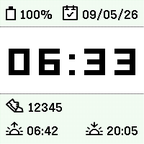
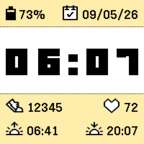
Improve watchface readability and status display

diff --git a/src/c/main.c b/src/c/main.c
@@ -65,6 +65,7 @@ static int32_t s_sunrise_minutes = -1;
 static int32_t s_sunset_minutes = -1;
 static int32_t s_current_date;
 static time_t s_last_sun_request_time;
+static uint8_t s_battery_percent;
 
 static bool s_steps_available;
 static bool s_heart_available;
@@ -73,8 +74,9 @@ static bool s_health_subscribed;
 static bool s_outbox_busy;
 
 static void prv_update_battery_state(BatteryChargeState state) {
+  s_battery_percent = state.charge_percent > 100 ? 100 : state.charge_percent;
   snprintf(s_battery_buffer, sizeof(s_battery_buffer), "%u%%",
-           (unsigned int)state.charge_percent);
+           (unsigned int)s_battery_percent);
 }
 
 static int32_t prv_date_code(const struct tm *local_time) {
@@ -288,8 +290,20 @@ static void prv_draw_battery_icon(GContext *ctx, GRect bounds) {
   graphics_fill_rect(ctx, body, 0, GCornerNone);
   graphics_fill_rect(ctx, terminal, 0, GCornerNone);
 
-  graphics_context_set_fill_color(ctx, GColorWhite);
+  graphics_context_set_fill_color(ctx, GColorYellow);
   graphics_fill_rect(ctx, interior, 0, GCornerNone);
+
+  int fill_height = (interior.size.h * s_battery_percent + 99) / 100;
+  if (s_battery_percent < 100 && fill_height == interior.size.h) {
+    fill_height--;
+  }
+  if (fill_height > 0) {
+    const GRect fill = GRect(interior.origin.x,
+                             interior.origin.y + interior.size.h - fill_height,
+                             interior.size.w, fill_height);
+    graphics_context_set_fill_color(ctx, GColorBlack);
+    graphics_fill_rect(ctx, fill, 0, GCornerNone);
+  }
 }
 
 static void prv_draw_header(GContext *ctx, int width) {
@@ -352,25 +366,15 @@ static void prv_draw_horizontal_dotted_line(GContext *ctx, int y, int width) {
 }
 
 static void prv_draw_status_background(GContext *ctx, GRect bounds) {
-  // Emery has no solid neutral gray between #AAAAAA and white. One gray
-  // pixel per 2x2 white pixels gives a very light, neutral appearance.
-  graphics_context_set_stroke_color(ctx, GColorLightGray);
-  graphics_context_set_stroke_width(ctx, 1);
-  for (int y = bounds.origin.y; y < bounds.origin.y + bounds.size.h; ++y) {
-    if (y % 2 != 0) {
-      continue;
-    }
-    for (int x = bounds.origin.x; x < bounds.origin.x + bounds.size.w; x += 2) {
-      graphics_draw_pixel(ctx, GPoint(x, y));
-    }
-  }
+  graphics_context_set_fill_color(ctx, GColorYellow);
+  graphics_fill_rect(ctx, bounds, 0, GCornerNone);
 }
 
 static void prv_draw_time(GContext *ctx, int width, int time_y) {
   graphics_context_set_text_color(ctx, GColorBlack);
 
   const int glyph_count = strlen(s_time_buffer);
-  const int target_width = glyph_count == 5 ? width - 16 : width - 36;
+  const int target_width = glyph_count == 5 ? width - 8 : width - 24;
   int glyph_widths[5] = {0};
   int glyphs_width = 0;
   char glyph[2] = {'\0', '\0'};
@@ -595,7 +599,7 @@ static void prv_window_load(Window *window) {
   Layer *window_layer = window_get_root_layer(window);
   const GRect bounds = layer_get_bounds(window_layer);
 
-  s_time_font = fonts_get_system_font(FONT_KEY_LECO_60_NUMBERS_AM_PM);
+  s_time_font = fonts_get_system_font(FONT_KEY_LECO_60_BOLD_NUMBERS_AM_PM);
   s_ampm_font = fonts_get_system_font(FONT_KEY_GOTHIC_14_BOLD);
   s_info_font = fonts_get_system_font(FONT_KEY_GOTHIC_24_BOLD);
 

diff --git a/STORE_LISTING.md b/STORE_LISTING.md
@@ -10,10 +10,11 @@ A crisp clock with battery, date, Health stats and locally calculated sun times.
 
 ## Description
 
-Pebble Like Time combines a large clock with very light gray status panels and
+Pebble Like Time combines a large clock with Workout-yellow status panels and
 fine dotted separators. It follows your watch's 12/24-hour and date settings.
 
-See battery percentage, daily steps, heart rate, sunrise and sunset at a glance.
+See battery percentage and its visual fill level, daily steps, heart rate,
+sunrise and sunset at a glance.
 Unavailable status rows disappear and the clock recenters automatically.
 The clock updates once per minute. No settings, accounts, ads or analytics.
 
@@ -25,6 +26,7 @@ and may retain an earlier location until the next day. Polar day/night hides
 sun times. The clock works without location access.
 
 Independent watchface; not an official Pebble or Core Devices app.
+Developed with the assistance of coding AI.
 
 ## Release notes — 1.0.0
 

diff --git a/README.md b/README.md
@@ -1,10 +1,12 @@
 # Pebble Like Time
 
 A watchface for Pebble Time 2 (Emery, 200 × 228) with a white clock area,
-very light gray status panels and dotted separators.
+Workout-yellow status panels and dotted separators.
+
+This watchface was developed with the assistance of coding AI.
 
 - Automatic 12/24-hour time and locale-aware date.
-- Battery percentage beside a fixed empty battery outline.
+- Battery percentage beside a battery icon that fills with the charge level.
 - Pebble Health steps and heart rate when available.
 - Sunrise and sunset calculated locally on the paired phone with SunCalc 1.9.0.
 - Unavailable status rows disappear; the clock recenters automatically.
